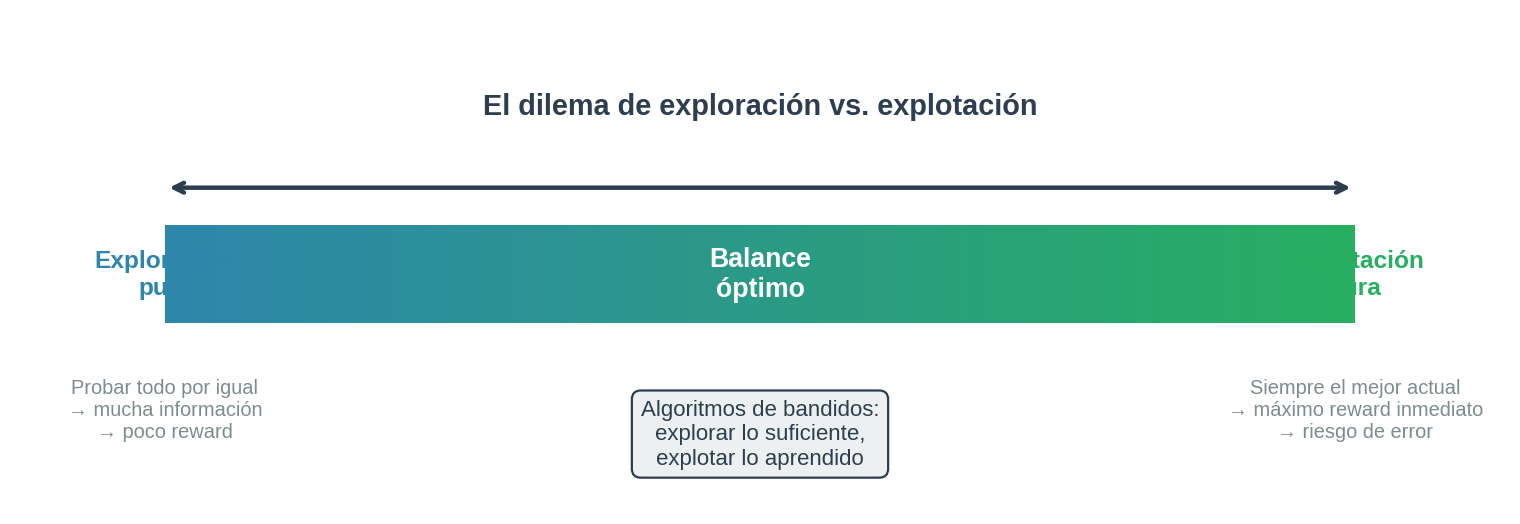
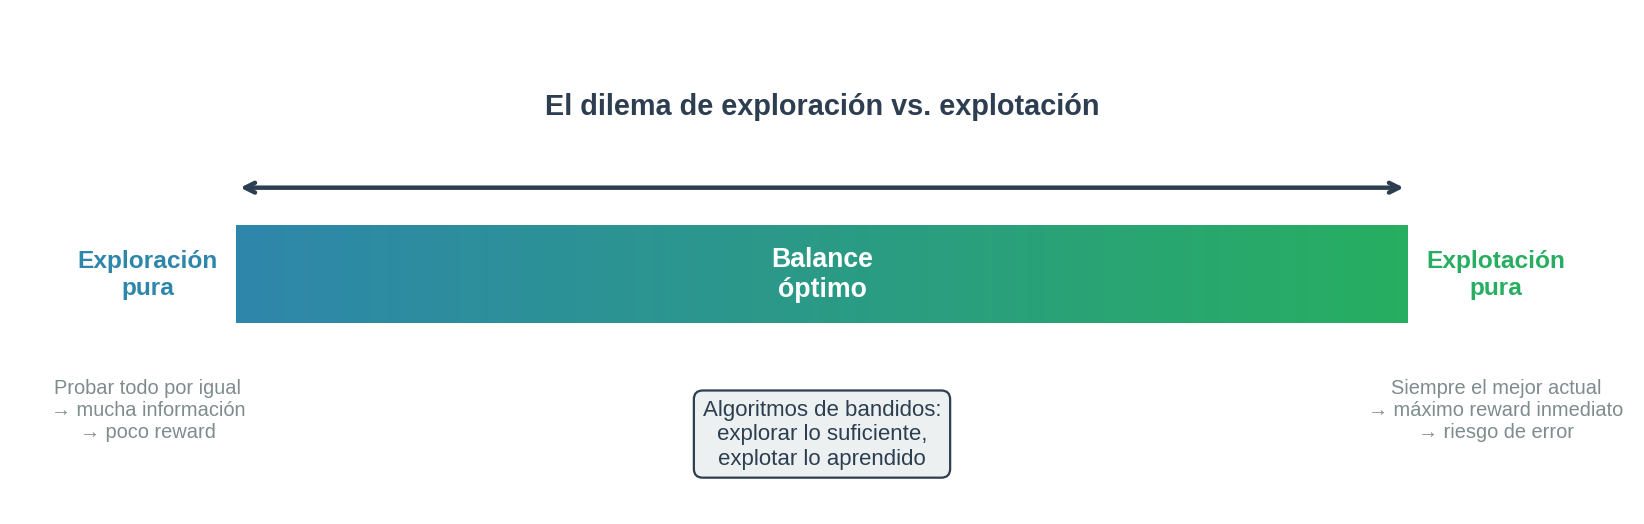
fix overlapping labels in explore-exploit spectrum plot

diff --git a/clase/17_multi_armed_bandits/lab_bandits.py b/clase/17_multi_armed_bandits/lab_bandits.py
@@ -424,8 +424,8 @@ def plot_02_gaussian_densities():
 
 def plot_03_explore_exploit_spectrum():
     """Conceptual exploration-exploitation spectrum."""
-    fig, ax = plt.subplots(figsize=(12, 4))
-    ax.set_xlim(0, 10)
+    fig, ax = plt.subplots(figsize=(13, 4))
+    ax.set_xlim(-0.5, 10.5)
     ax.set_ylim(0, 4)
     ax.axis("off")
 
@@ -440,18 +440,18 @@ def plot_03_explore_exploit_spectrum():
         ax.add_patch(mpatches.Rectangle((x, 1.5), 8 / 200, 0.8,
                                          facecolor=c, edgecolor="none"))
 
-    # Labels
-    ax.text(1, 1.9, "Exploración\npura", ha="center", va="center",
+    # Labels — placed outside the gradient bar to avoid overlap
+    ax.text(0.4, 1.9, "Exploración\npura", ha="center", va="center",
             fontsize=11, fontweight="bold", color=COLORS["blue"])
-    ax.text(9, 1.9, "Explotación\npura", ha="center", va="center",
+    ax.text(9.6, 1.9, "Explotación\npura", ha="center", va="center",
             fontsize=11, fontweight="bold", color=COLORS["green"])
     ax.text(5, 1.9, "Balance\nóptimo", ha="center", va="center",
             fontsize=12, fontweight="bold", color="white")
 
     # Descriptions
-    ax.text(1, 0.8, "Probar todo por igual\n→ mucha información\n→ poco reward",
+    ax.text(0.4, 0.8, "Probar todo por igual\n→ mucha información\n→ poco reward",
             ha="center", va="center", fontsize=9, color=COLORS["gray"])
-    ax.text(9, 0.8, "Siempre el mejor actual\n→ máximo reward inmediato\n→ riesgo de error",
+    ax.text(9.6, 0.8, "Siempre el mejor actual\n→ máximo reward inmediato\n→ riesgo de error",
             ha="center", va="center", fontsize=9, color=COLORS["gray"])
     ax.text(5, 0.6, "Algoritmos de bandidos:\nexplorar lo suficiente,\nexplotar lo aprendido",
             ha="center", va="center", fontsize=10, color=COLORS["dark"],
